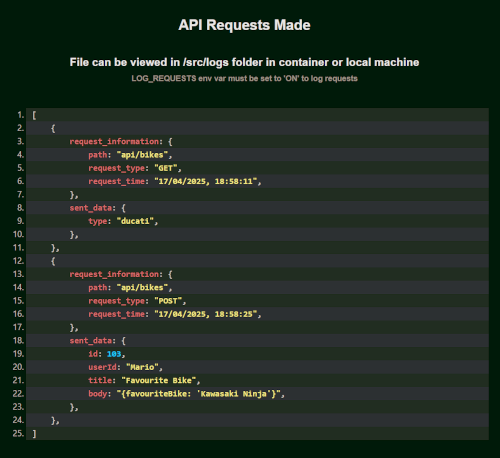
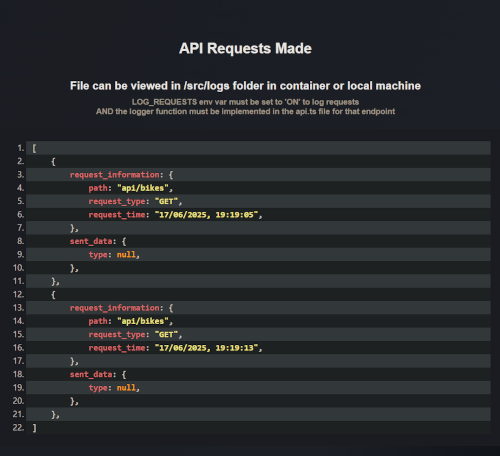
chore(): update readme

diff --git a/src/utilities/server-page.ts b/src/utilities/server-page.ts
@@ -409,7 +409,7 @@ const homePage = (apiPaths: string[]) => [
 }</pre>
                 <button class="copy-btn" id="mcp-copy-btn">Copy</button>
                 <span id="mcp-copy-status" style="font-size:0.98rem;"></span>
-                <p style="margin-top:18px;font-size:0.98rem;color:var(--text-muted);">Replace <code>&lt;absolute-path-to-your-project&gt;</code> with the full path to your project directory.</p>
+                <p style="margin-top:18px;font-size:0.98rem;color:var(--text-muted);">Replace <code>&lt;absolute-path-to-your-project&gt;</code> with the full path to your project directory and remember to use the path format suitable for your system (E.g &#92;&#92; on Windows).</p>
               </div>
             </div>
         </main>
@@ -467,7 +467,7 @@ const homePage = (apiPaths: string[]) => [
             checkServerStatus();
            
             // Check every 10 seconds
-            setInterval(checkServerStatus, 10000);
+            setInterval(checkServerStatus, 2000);
         });
         const mcpBtn = document.getElementById('mcp-connect-btn');
         const mcpModal = document.getElementById('mcp-modal');

diff --git a/src/utilities/log-page.ts b/src/utilities/log-page.ts
@@ -31,7 +31,7 @@ const createHtml = () => {
             <body style="margin: 0px; background: linear-gradient(120deg, #20232a 0%, #23272F 70%, #0d1117 100%); display: flex; flex-direction: column; justify-content: center; align-items: center; min-height:100vh; font-family: sans-serif;">
             <h2 style="color:white" data-cy="logger-title">API Requests Made</h2>
             <h3 style="color:white">File can be viewed in /src/logs folder in container or local machine</h3>
-            <h5 style="color:grey; margin-top:-10px;">LOG_REQUESTS env var must be set to 'ON' to log requests</h5>
+            <h5 style="text-align: center; color:grey; margin-top:-10px;">LOG_REQUESTS env var must be set to 'ON' to log requests <br/>AND the logger function must be implemented in the api.ts file for that endpoint</h5>
 <div class="json-container" style="width: 100%; padding:20px; box-sizing: border-box;">
 ${prettyPrintJson.toHtml(JSON.parse(readLogs()), { indent: 4, lineNumbers: true })}  
 </div>

diff --git a/README.md b/README.md
@@ -61,7 +61,7 @@ npm start
 
 The list of available APIs can be viewed on localhost:8000/api by default but this can be customised - see later.
 
-A list of all endpoints can be viewed on http://localhost:8000/.
+A list of all endpoints can be viewed on the mock server dashboard at http://localhost:8000/.
 
 The project has been set-up with demo endpoints that can be removed or modified as needed.
 
